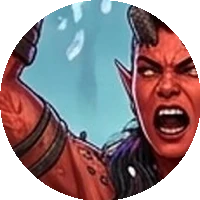
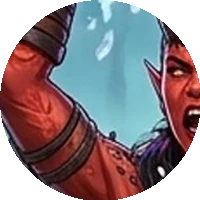
卡拉克大頭貼置中（cx 445→420）；ff 頭像放大 48→72px，名字 12→15px

diff --git a/style.css b/style.css
@@ -1449,13 +1449,13 @@ button { font-family: inherit; cursor: pointer; border: none; background: none; 
   display: flex;
   flex-direction: column;
   align-items: center;
-  gap: 4px;
-  min-width: 64px;
+  gap: 6px;
+  min-width: 80px;
 }
 
 .ff-av {
-  width: 48px;
-  height: 48px;
+  width: 72px;
+  height: 72px;
   border-radius: 50%;
   overflow: hidden;
   border: 2px solid var(--gold-border);
@@ -1465,7 +1465,7 @@ button { font-family: inherit; cursor: pointer; border: none; background: none; 
 
 .ff-name {
   font-family: 'Cinzel', serif;
-  font-size: 12px;
+  font-size: 15px;
   letter-spacing: 1px;
   text-align: center;
 }
@@ -1473,14 +1473,14 @@ button { font-family: inherit; cursor: pointer; border: none; background: none; 
 .ff-victim { color: var(--gold-bright); }
 
 .ff-role {
-  font-size: 10px;
+  font-size: 11px;
   letter-spacing: 1px;
   color: rgba(217,176,122,0.4);
   text-transform: uppercase;
 }
 
 .ff-arrow {
-  font-size: 20px;
+  font-size: 26px;
   color: rgba(200,60,60,0.6);
   flex: 1;
   text-align: center;
